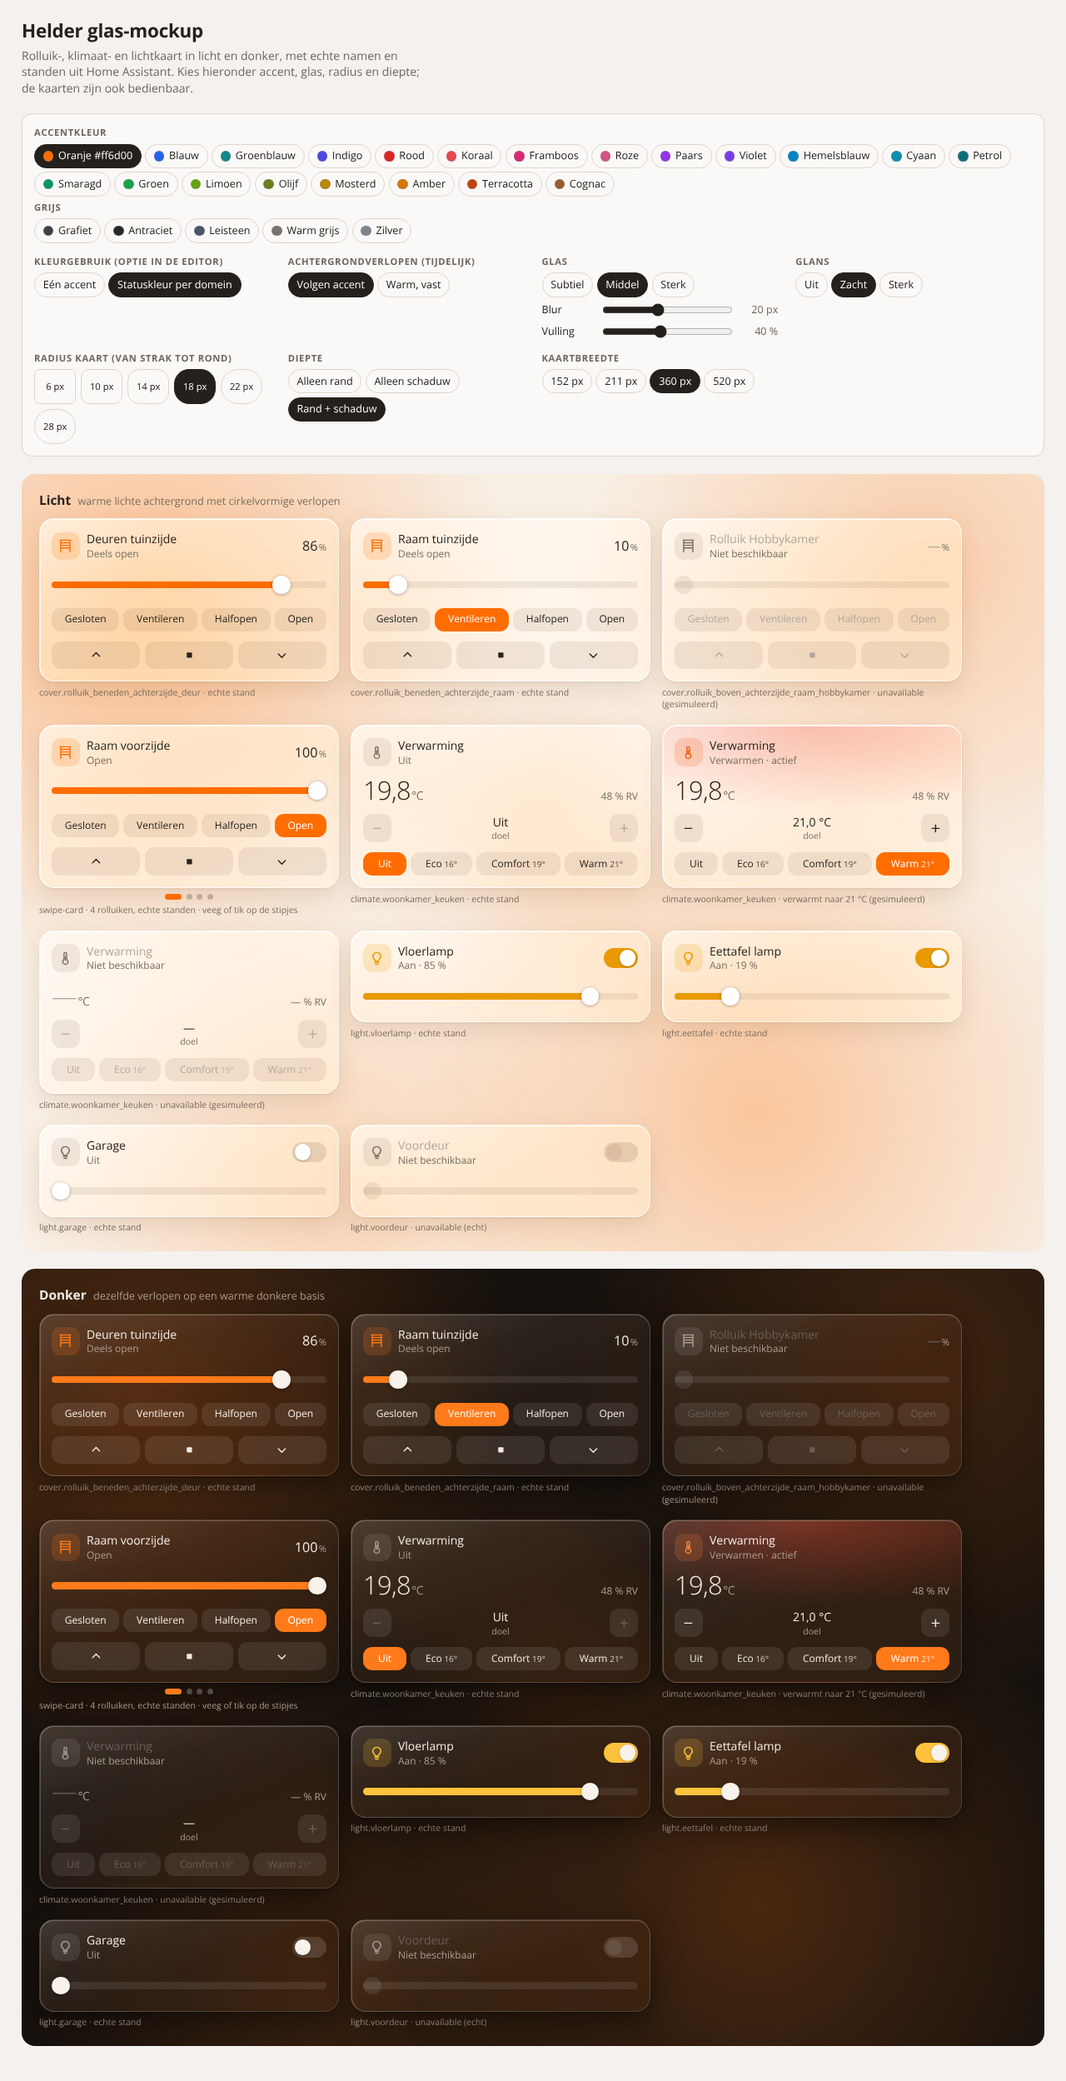
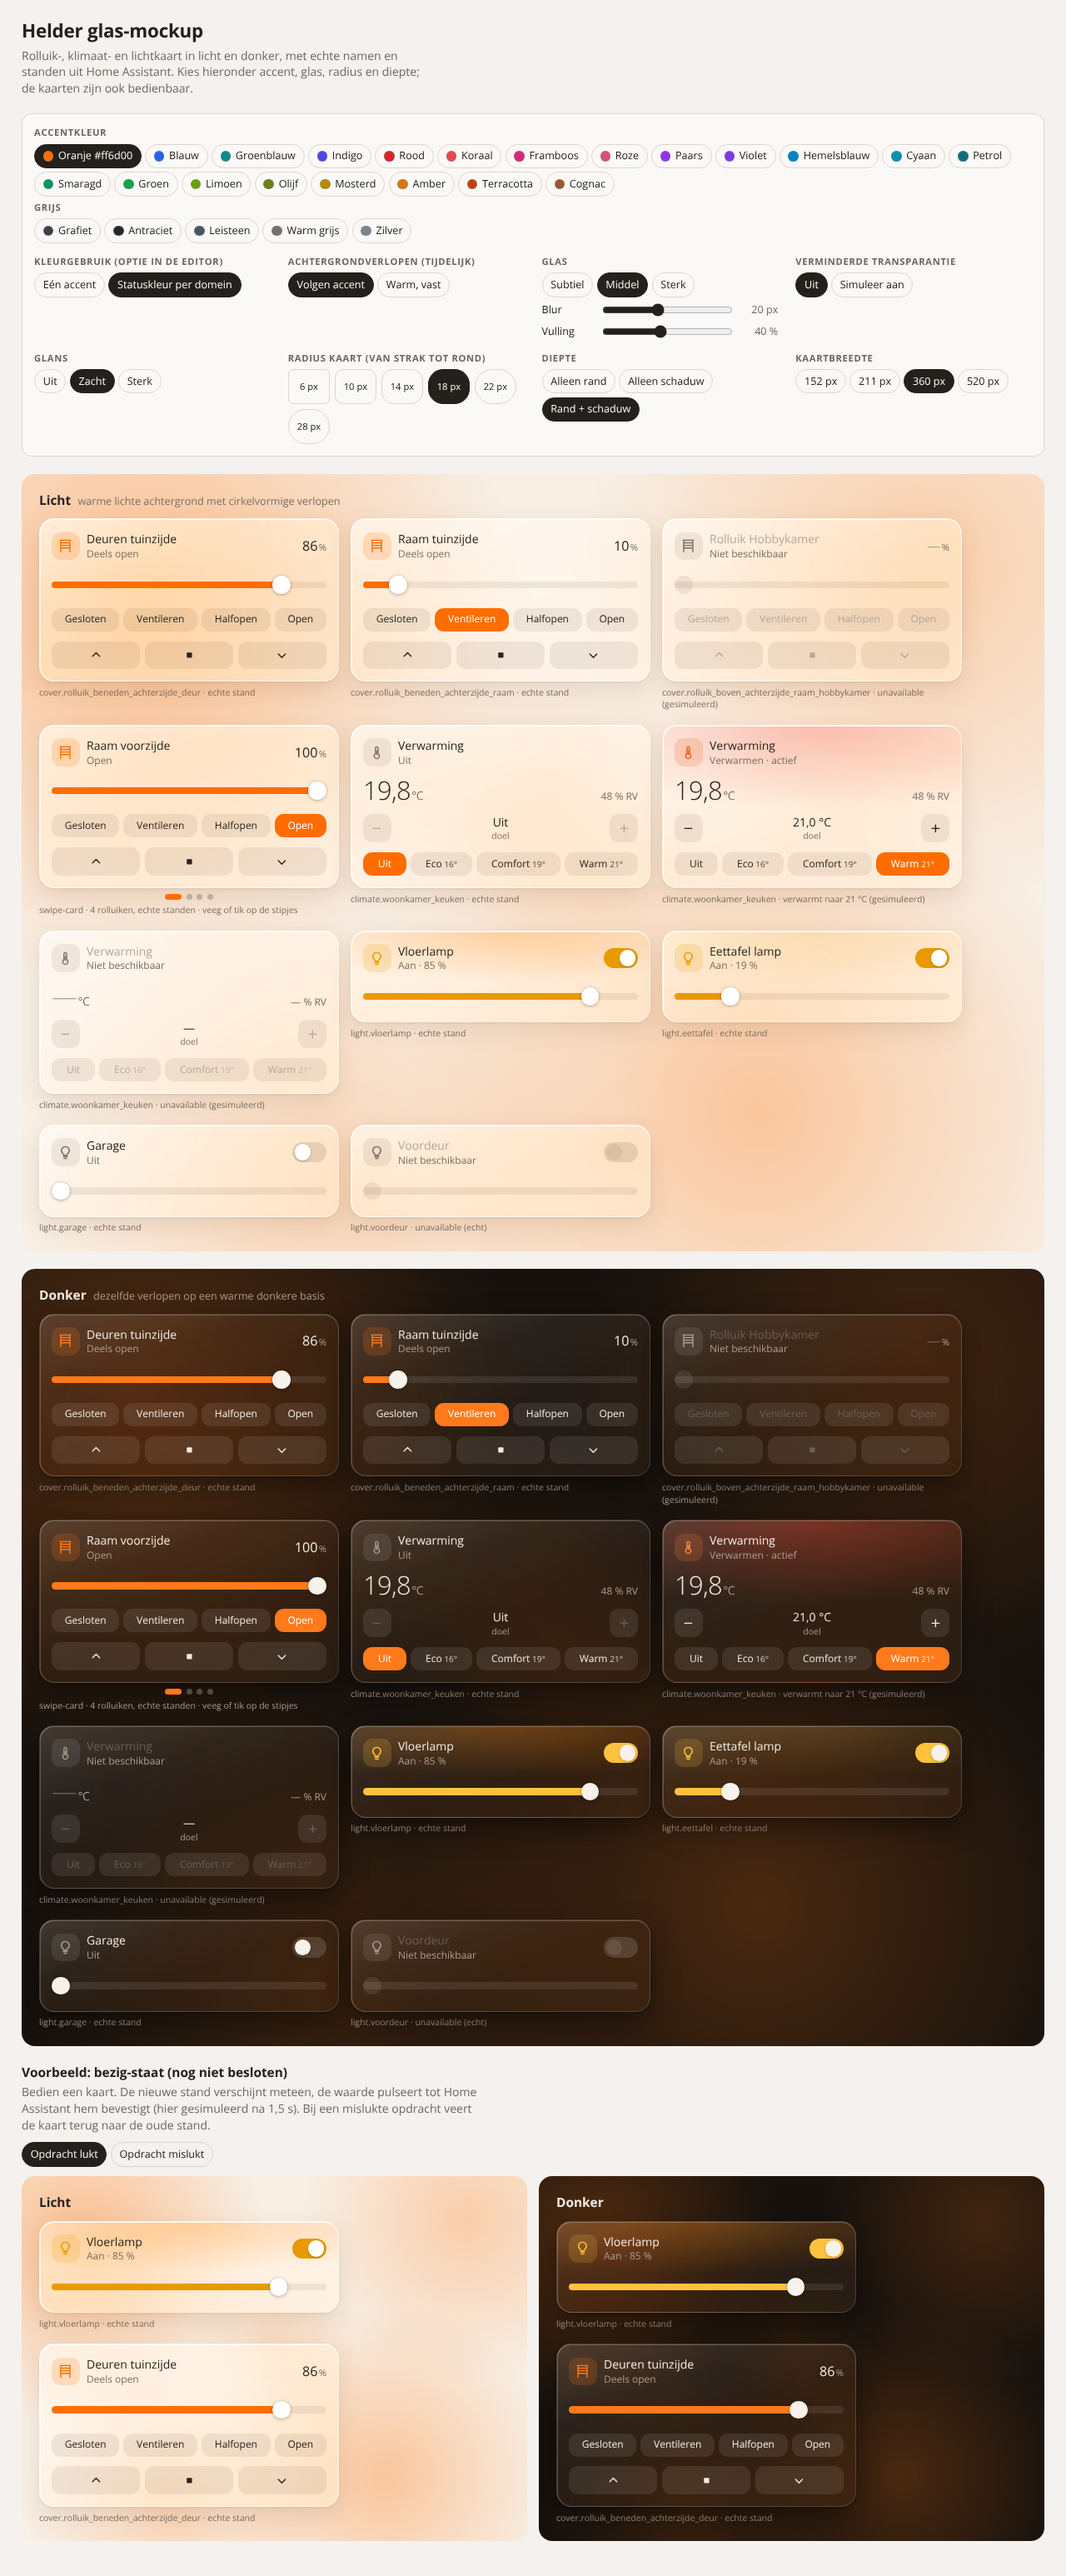
mockup: lamp glow in real colour, reduced transparency, preset dropdown at 152px, busy-state demo
Claude-Session: https://claude.ai/code/session_0188TZibxehgLpvZx4MTqWFe

diff --git a/mockup/glass.html b/mockup/glass.html
@@ -132,6 +132,8 @@ header p { margin: .3rem 0 0; color: var(--page-muted); max-width: 60ch; }
   --helder-color-light: #e89a00;
   --helder-color-heat: #e8590c;
   --helder-heat-glow: rgba(235, 45, 30, .26);
+  --helder-light-glow-strength: 34%;
+  --helder-color-error: #c62828;
 }
 .stage[data-mode="dark"] {
   --helder-color-bg: #16110d;
@@ -153,6 +155,8 @@ header p { margin: .3rem 0 0; color: var(--page-muted); max-width: 60ch; }
   --helder-color-light: #ffc23d;
   --helder-color-heat: #ff8a3d;
   --helder-heat-glow: rgba(255, 70, 50, .30);
+  --helder-light-glow-strength: 30%;
+  --helder-color-error: #ff6b6b;
 }
 /* accentkleur: per modus gezet vanuit het paneel (zie ACCENTS in het script) */
 /* tijdelijk: achtergrondverlopen volgen de accentkleur */
@@ -325,6 +329,57 @@ figcaption b { font-weight: 400; }
 /* klimaat: rode gloed vanaf de bovenrand zolang de verwarming actief verwarmt */
 .card.heating { --card-glow: radial-gradient(ellipse 130% 75% at 50% 0%, var(--helder-heat-glow) 0%, transparent 70%); }
 
+/* licht: gloed vanaf de bovenrand in de echte lampkleur (rgb_color); zonder kleur valt hij terug op de statuskleur.
+   De sterkte schaalt mee met de helderheid. */
+.card.lit {
+  --card-glow: radial-gradient(ellipse 130% 80% at 50% 0%,
+    color-mix(in srgb, var(--lamp, var(--helder-state-light)) calc(var(--helder-light-glow-strength) * (.35 + .65 * var(--bri-f, 1))), transparent) 0%,
+    transparent 72%);
+}
+
+/* rolluik: op smalle breedtes worden de presets één knop met keuzemenu */
+.dd {
+  display: none; position: relative; align-items: center; justify-content: space-between; gap: .4rem;
+  height: 2.4rem; padding: 0 .7rem; border-radius: var(--helder-radius-control);
+  background: var(--helder-control-bg);
+  border: 1px solid color-mix(in srgb, var(--helder-color-text) 22%, transparent);
+  color: var(--helder-color-text); font-size: .857rem;
+}
+.dd-label { min-width: 0; white-space: nowrap; overflow: hidden; text-overflow: ellipsis; }
+.dd-label.empty { color: var(--helder-color-text-muted); }
+.dd svg { width: 1.1rem; height: 1.1rem; flex: none; color: var(--helder-color-text-muted); }
+.dd select { position: absolute; inset: 0; width: 100%; height: 100%; opacity: 0; cursor: pointer; font-size: 16px; }
+.dd select:disabled { cursor: default; }
+.dd:focus-within { outline: 2px solid var(--helder-color-accent); outline-offset: 2px; }
+.card.na .dd { color: var(--helder-color-disabled); border-color: color-mix(in srgb, var(--helder-color-disabled) 30%, transparent); }
+@container (max-width: 140px) {
+  .cover-chips { display: none; }
+  .dd { display: flex; }
+}
+
+/* verminderde transparantie (systeeminstelling of simulatie in het paneel): glas wordt bijna dekkend */
+@media (prefers-reduced-transparency: reduce) {
+  .stage { --helder-glass-fill: rgba(var(--helder-glass-rgb), .94); }
+  .card { -webkit-backdrop-filter: none; backdrop-filter: none; }
+}
+[data-rt="on"] .stage { --helder-glass-fill: rgba(var(--helder-glass-rgb), .94); }
+[data-rt="on"] .card { -webkit-backdrop-filter: none; backdrop-filter: none; }
+
+/* voorbeeld bezig-staat: waarde pulseert tot HA bevestigt; bij mislukken veert de kaart terug */
+.card.pending .value, .card.pending .sub, .card.pending .icon { animation: helder-pulse 1s ease-in-out infinite; }
+.card.failed { animation: helder-shake .38s ease-in-out; }
+.card.failed .sub { color: var(--helder-color-error); }
+@keyframes helder-pulse { 50% { opacity: .4; } }
+@keyframes helder-shake { 20% { transform: translateX(-4px); } 40% { transform: translateX(4px); } 60% { transform: translateX(-3px); } 80% { transform: translateX(2px); } }
+@media (prefers-reduced-motion: reduce) {
+  .card.pending .value, .card.pending .sub, .card.pending .icon { animation: none; opacity: .55; }
+  .card.failed { animation: none; }
+}
+.demo { display: grid; gap: .8rem; }
+.demo-head h2 { margin: 0; font-size: 1.1rem; font-weight: 700; }
+.demo-head p { margin: .2rem 0 0; color: var(--page-muted); max-width: 70ch; }
+.demo-stages { display: grid; grid-template-columns: repeat(auto-fit, minmax(min(100%, 30rem), 1fr)); gap: 1rem; }
+
 /* onbeschikbaar: alleen kleuren veranderen */
 .card.na .name, .card.na .value, .card.na .big { color: var(--helder-color-disabled); }
 
@@ -369,6 +424,13 @@ figcaption b { font-weight: 400; }
       <label class="rngrow" for="fill">Vulling <input class="rng" id="fill" type="range" min="5" max="85" step="1"><output id="fillOut"></output></label>
     </div>
     <div class="ctl">
+      <span class="lbl">Verminderde transparantie</span>
+      <div class="seg" data-set="rt">
+        <button data-v="off">Uit</button>
+        <button data-v="on">Simuleer aan</button>
+      </div>
+    </div>
+    <div class="ctl">
       <span class="lbl">Glans</span>
       <div class="seg" data-set="gloss">
         <button data-v="0">Uit</button>
@@ -407,6 +469,21 @@ figcaption b { font-weight: 400; }
     <h2 class="stage-title">Donker <span>dezelfde verlopen op een warme donkere basis</span></h2>
     <div class="cards"></div>
   </section>
+
+  <section class="demo" aria-label="Voorbeeld bezig-staat">
+    <div class="demo-head">
+      <h2>Voorbeeld: bezig-staat (nog niet besloten)</h2>
+      <p>Bedien een kaart. De nieuwe stand verschijnt meteen, de waarde pulseert tot Home Assistant hem bevestigt (hier gesimuleerd na 1,5 s). Bij een mislukte opdracht veert de kaart terug naar de oude stand.</p>
+    </div>
+    <div class="seg" data-set="outcome">
+      <button data-v="ok">Opdracht lukt</button>
+      <button data-v="fail">Opdracht mislukt</button>
+    </div>
+    <div class="demo-stages">
+      <section class="stage" data-mode="light" data-demo aria-label="Bezig-staat licht"><h2 class="stage-title">Licht</h2><div class="cards"></div></section>
+      <section class="stage" data-mode="dark" data-demo aria-label="Bezig-staat donker"><h2 class="stage-title">Donker</h2><div class="cards"></div></section>
+    </div>
+  </section>
 </div>
 
 <script>
@@ -420,6 +497,7 @@ figcaption b { font-weight: 400; }
     therm: '<svg viewBox="0 0 24 24" fill="none" stroke="currentColor" stroke-width="1.8" stroke-linecap="round"><path d="M10 13.5V5a2 2 0 1 1 4 0v8.5a4 4 0 1 1-4 0z"/><path d="M12 9v6"/></svg>',
     minus: '<svg viewBox="0 0 24 24" fill="none" stroke="currentColor" stroke-width="2" stroke-linecap="round"><path d="M6 12h12"/></svg>',
     plus:  '<svg viewBox="0 0 24 24" fill="none" stroke="currentColor" stroke-width="2" stroke-linecap="round"><path d="M6 12h12M12 6v12"/></svg>',
+    chev:  '<svg viewBox="0 0 24 24" fill="none" stroke="currentColor" stroke-width="2" stroke-linecap="round" stroke-linejoin="round"><path d="M7 10l5 5 5-5"/></svg>',
     bulb:  '<svg viewBox="0 0 24 24" fill="none" stroke="currentColor" stroke-width="1.8" stroke-linecap="round" stroke-linejoin="round"><path d="M9 18h6M10 21h4M12 3a6 6 0 0 0-3.6 10.8c.7.6 1.1 1.3 1.1 2.2h5c0-.9.4-1.6 1.1-2.2A6 6 0 0 0 12 3z"/></svg>'
   };
   const fmt = (n, d = 1) => n.toLocaleString('nl-NL', { minimumFractionDigits: d, maximumFractionDigits: d });
@@ -440,24 +518,28 @@ figcaption b { font-weight: 400; }
     { kind: 'climate', id: 'climate.woonkamer_keuken', name: 'Verwarming', area: 'Woonkamer & Keuken', mode: 'off', cur: 19.8, hum: 47.8, target: 19, min: 16, max: 22, step: .5 },
     { kind: 'climate', id: 'climate.woonkamer_keuken', name: 'Verwarming', area: 'Woonkamer & Keuken', mode: 'heat', cur: 19.8, hum: 47.8, target: 21, min: 16, max: 22, step: .5, sim: true },
     { kind: 'climate', id: 'climate.woonkamer_keuken', name: 'Verwarming', area: 'Woonkamer & Keuken', na: true, sim: true, min: 16, max: 22, step: .5 },
-    { kind: 'light', id: 'light.vloerlamp', name: 'Vloerlamp', area: 'Woonkamer', on: true, bri: 217 },
+    { kind: 'light', id: 'light.vloerlamp', name: 'Vloerlamp', area: 'Woonkamer', on: true, bri: 217, rgb: [255, 137, 14] },
     { kind: 'light', id: 'light.eettafel', name: 'Eettafel lamp', area: 'Woonkamer & Keuken', on: true, bri: 49 },
     { kind: 'light', id: 'light.garage', name: 'Garage', area: 'Garage', on: false, bri: 128 },
     { kind: 'light', id: 'light.voordeur', name: 'Voordeur', area: 'Voor- & Achtertuin', na: true }
   ];
 
   const pct = b => Math.round(b / 255 * 100);
+  const flags = e => `${e._pending ? ' pending' : ''}${e._failed ? ' failed' : ''}`;
 
   function coverCard(e) {
     const na = !!e.na, p = na ? 0 : e.pos;
     const state = na ? 'Niet beschikbaar' : p === 0 ? 'Gesloten' : p === 100 ? 'Open' : 'Deels open';
     const dis = na ? 'disabled' : '';
-    return `<div class="card ${na ? 'na' : (p > 0 ? 'active' : '')}" style="--state:var(--helder-state-cover)">
+    const cur = na ? null : coverPresets.find(([, v]) => v === p);
+    return `<div class="card ${na ? 'na' : (p > 0 ? 'active' : '')}${flags(e)}" style="--state:var(--helder-state-cover)">
       <div class="head"><div class="icon">${I.cover}</div>
-        <div class="text"><div class="name">${e.name}</div><div class="sub">${state}</div></div>
+        <div class="text"><div class="name">${e.name}</div><div class="sub">${e._failed ? 'Mislukt, teruggezet' : state}</div></div>
         <div class="value">${na ? '—' : p}<span class="unit">%</span></div></div>
       <input class="slider" type="range" min="0" max="100" step="1" value="${p}" style="--p:${p}%" aria-label="Positie ${e.name}" data-act="pos" ${dis}>
-      <div class="chips">${coverPresets.map(([l, v]) => `<button class="chip" data-act="preset" data-v="${v}" aria-pressed="${!na && p === v}" ${dis}>${l}</button>`).join('')}</div>
+      <div class="dd"><span class="dd-label${cur ? '' : ' empty'}">${cur ? cur[0] : 'Kies stand'}</span>${I.chev}
+        <select data-act="preset-select" aria-label="Stand ${e.name}" ${dis}><option value="" disabled ${cur ? '' : 'selected'}>Kies stand</option>${coverPresets.map(([l, v]) => `<option value="${v}" ${cur && cur[1] === v ? 'selected' : ''}>${l} (${v} %)</option>`).join('')}</select></div>
+      <div class="chips cover-chips">${coverPresets.map(([l, v]) => `<button class="chip" data-act="preset" data-v="${v}" aria-pressed="${!na && p === v}" ${dis}>${l}</button>`).join('')}</div>
       <div class="row">
         <button class="btn" data-act="open" aria-label="Openen" ${dis}>${I.up}</button>
         <button class="btn" data-act="stop" aria-label="Stoppen" ${dis}>${I.stop}</button>
@@ -488,9 +570,10 @@ figcaption b { font-weight: 400; }
   function lightCard(e) {
     const na = !!e.na, on = !na && e.on, p = na ? 0 : pct(e.bri);
     const dis = na ? 'disabled' : '';
-    return `<div class="card ${na ? 'na' : (on ? 'active' : '')}" style="--state:var(--helder-state-light)">
+    const lamp = on && e.rgb ? `--lamp:rgb(${e.rgb.join(' ')});` : '';
+    return `<div class="card ${na ? 'na' : (on ? 'active lit' : '')}${flags(e)}" style="--state:var(--helder-state-light);${lamp}--bri-f:${on ? (e.bri / 255).toFixed(2) : 0}">
       <div class="head"><div class="icon">${I.bulb}</div>
-        <div class="text"><div class="name">${e.name}</div><div class="sub">${na ? 'Niet beschikbaar' : on ? 'Aan · ' + p + ' %' : 'Uit'}</div></div>
+        <div class="text"><div class="name">${e.name}</div><div class="sub">${e._failed ? 'Mislukt, teruggezet' : na ? 'Niet beschikbaar' : on ? 'Aan · ' + p + ' %' : 'Uit'}</div></div>
         <button class="switch" role="switch" aria-checked="${on}" aria-label="${e.name} aan/uit" data-act="toggle" ${dis}></button></div>
       <input class="slider" type="range" min="1" max="100" step="1" value="${on ? p : 0}" style="--p:${on ? p : 0}%" aria-label="Helderheid ${e.name}" data-act="bri" ${dis}>
     </div>`;
@@ -505,7 +588,8 @@ figcaption b { font-weight: 400; }
 
   const renderers = { cover: coverCard, climate: climateCard, light: lightCard, swipe: swipeCard };
   // Iedere modus krijgt een eigen kopie van de staat, zodat je licht en donker los kunt bedienen.
-  const stages = [...document.querySelectorAll('.stage')].map(el => ({ el, list: structuredClone(entities) }));
+  const demoEntities = [entities.find(e => e.id === 'light.vloerlamp'), entities.find(e => e.id === 'cover.rolluik_beneden_achterzijde_deur')];
+  const stages = [...document.querySelectorAll('.stage')].map(el => ({ el, demo: 'demo' in el.dataset, list: structuredClone(el.dataset.demo !== undefined ? demoEntities : entities) }));
 
   function caption(e) {
     if (e.kind === 'swipe') return `<figcaption><b>swipe-card</b> · ${e.items.length} rolluiken, echte standen · veeg of tik op de stipjes</figcaption>`;
@@ -533,6 +617,21 @@ figcaption b { font-weight: 400; }
     fig.innerHTML = renderers[s.list[i].kind](s.list[i]) + caption(s.list[i]);
   }
 
+  const snap = e => { const c = { ...e }; delete c._pending; delete c._failed; return c; };
+  // Optimistisch: eerst de nieuwe stand tonen. In het voorbeeld bezig-staat volgt daarna een gesimuleerde bevestiging van HA.
+  function commit(s, r, before) {
+    if (!s.demo) { rerender(s, r); return; }
+    const e = r.e; e._pending = true; e._failed = false; rerender(s, r);
+    clearTimeout(e._t);
+    e._t = setTimeout(() => {
+      e._pending = false;
+      if (st.outcome === 'fail') {
+        Object.assign(e, before, { _failed: true }); rerender(s, r);
+        e._t = setTimeout(() => { e._failed = false; rerender(s, r); }, 2200);
+      } else rerender(s, r);
+    }, 1500);
+  }
+
   stages.forEach(s => {
     renderStage(s);
     s.el.addEventListener('input', ev => {
@@ -543,17 +642,19 @@ figcaption b { font-weight: 400; }
       if (e.kind === 'light') { box.querySelector('.sub').textContent = 'Aan · ' + t.value + ' %'; }
     });
     s.el.addEventListener('change', ev => {
-      const t = ev.target; if (!t.classList.contains('slider')) return;
-      const r = resolve(s, t), e = r.e;
+      const t = ev.target;
+      if (t.tagName === 'SELECT') { const r = resolve(s, t), before = snap(r.e); r.e.pos = +t.value; commit(s, r, before); return; }
+      if (!t.classList.contains('slider')) return;
+      const r = resolve(s, t), e = r.e, before = snap(e);
       if (e.kind === 'cover') e.pos = +t.value;
       if (e.kind === 'light') { e.on = true; e.bri = Math.round(+t.value / 100 * 255); }
-      rerender(s, r);
+      commit(s, r, before);
     });
     s.el.addEventListener('click', ev => {
       const dot = ev.target.closest('.dot');
       if (dot) { const t = dot.closest('.swipe').querySelector('.track'); const sl = t.children, step = sl.length > 1 ? sl[1].offsetLeft - sl[0].offsetLeft : t.clientWidth; t.scrollTo({ left: +dot.dataset.go * step, behavior: 'smooth' }); return; }
       const b = ev.target.closest('button[data-act]'); if (!b || b.disabled) return;
-      const r = resolve(s, b), e = r.e, a = b.dataset.act;
+      const r = resolve(s, b), e = r.e, a = b.dataset.act, before = snap(e);
       if (a === 'preset') e.pos = +b.dataset.v;
       if (a === 'open') e.pos = 100;
       if (a === 'close') e.pos = 0;
@@ -561,7 +662,7 @@ figcaption b { font-weight: 400; }
       if (a === 'dec') e.target = Math.max(e.min, e.target - e.step);
       if (a === 'inc') e.target = Math.min(e.max, e.target + e.step);
       if (a === 'cpreset') { if (b.dataset.v === 'null') e.mode = 'off'; else { e.mode = 'heat'; e.target = +b.dataset.v; } }
-      rerender(s, r);
+      commit(s, r, before);
     });
   });
 
@@ -603,14 +704,14 @@ figcaption b { font-weight: 400; }
   // ---------- Bedieningspaneel ----------
   const glassPresets = { subtle: [12, 55], medium: [20, 40], strong: [32, 25] };
   const radii = [6, 10, 14, 18, 22, 28];
-  const st = { accent: 'orange', colors: 'domain', glass: 'medium', blur: 20, fill: 40, radius: 18, depth: 'both', width: 211, bg: 'accent', gloss: 0.45 };
+  const st = { accent: 'orange', colors: 'domain', glass: 'medium', blur: 20, fill: 40, radius: 18, depth: 'both', width: 211, bg: 'accent', gloss: 0.45, rt: 'off', outcome: 'ok' };
   try { Object.assign(st, JSON.parse(localStorage.getItem('helder-mockup') || '{}')); } catch (_) {}
 
   document.querySelector('[data-set="radius"]').innerHTML = radii.map(r => `<button data-v="${r}" style="--r:${r}px">${r} px</button>`).join('');
   const blur = document.getElementById('blur'), fill = document.getElementById('fill');
 
   function apply() {
-    app.dataset.accent = st.accent; app.dataset.colors = st.colors; app.dataset.depth = st.depth; app.dataset.bg = st.bg;
+    app.dataset.accent = st.accent; app.dataset.colors = st.colors; app.dataset.depth = st.depth; app.dataset.bg = st.bg; app.dataset.rt = st.rt;
     stages.forEach(s => {
       s.el.style.setProperty('--glass-blur', st.blur + 'px');
       s.el.style.setProperty('--glass-alpha', st.fill / 100);

diff --git a/docs/design.md b/docs/design.md
@@ -97,4 +97,10 @@ deploy/deploy.sh uitrol naar HA
 | 2026-11-15 | Claude mag de hele HA-installatie lezen (alleen lezen; wijzigen blijft na toestemming) |
 | 2026-11-15 | Geen vetgedrukte tekst in kaarten: alle kaarttekst normaal gewicht (400), grote readouts licht (300) |
 | 2026-11-15 | Klimaatkaart: zolang de verwarming actief verwarmt (`hvac_action: heating`), toont de kaart een lichte rode gloed vanaf de bovenrand richting het midden (token `--helder-heat-glow`) |
+| 2026-11-15 | Lichtkaart: een brandende lamp krijgt een gloed vanaf de bovenrand in de echte lampkleur (`rgb_color`), sterkte schaalt mee met de helderheid; zonder kleur valt hij terug op de statuskleur |
+| 2026-11-15 | Rolluikstand niet als vlak in de kaartachtergrond tonen (voorstel afgewezen) |
+| 2026-11-15 | Bij `prefers-reduced-transparency: reduce` wordt het glas bijna dekkend (vulling 94 %, geen blur) |
+| 2026-11-15 | Bezig-staat (pulserende waarde tot HA bevestigt, terugveren bij mislukken): eerst los voorbeeld in de mockup, nog niet besloten |
+| 2026-11-15 | Rolluikkaart op smalle breedte (152 px): presets als één knop met keuzemenu, met zichtbaar pijltje en rand zodat het meteen als dropdown herkenbaar is |
+| 2026-11-15 | Prestaties blur later meten op het oudste apparaat (iPhone 12 Pro Max); iPad is niet oud |
 | 2026-11-15 | Fundamentwerk in deze thread op branch `claude/project-thread-ganvgt`; merge naar `main` na akkoord |
